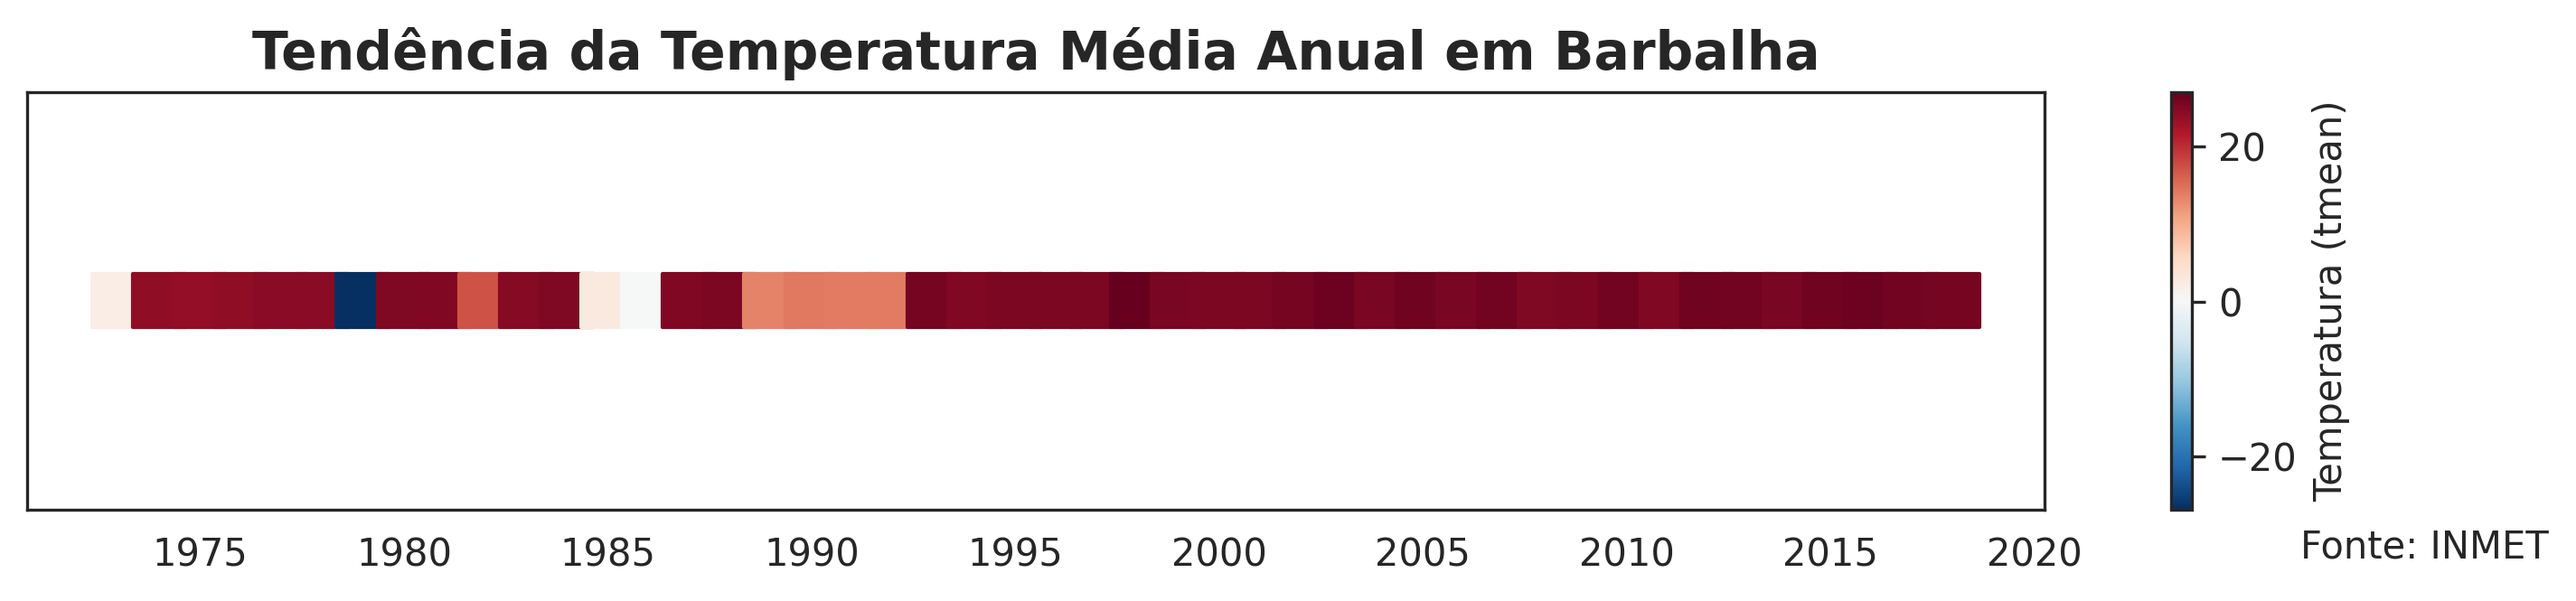
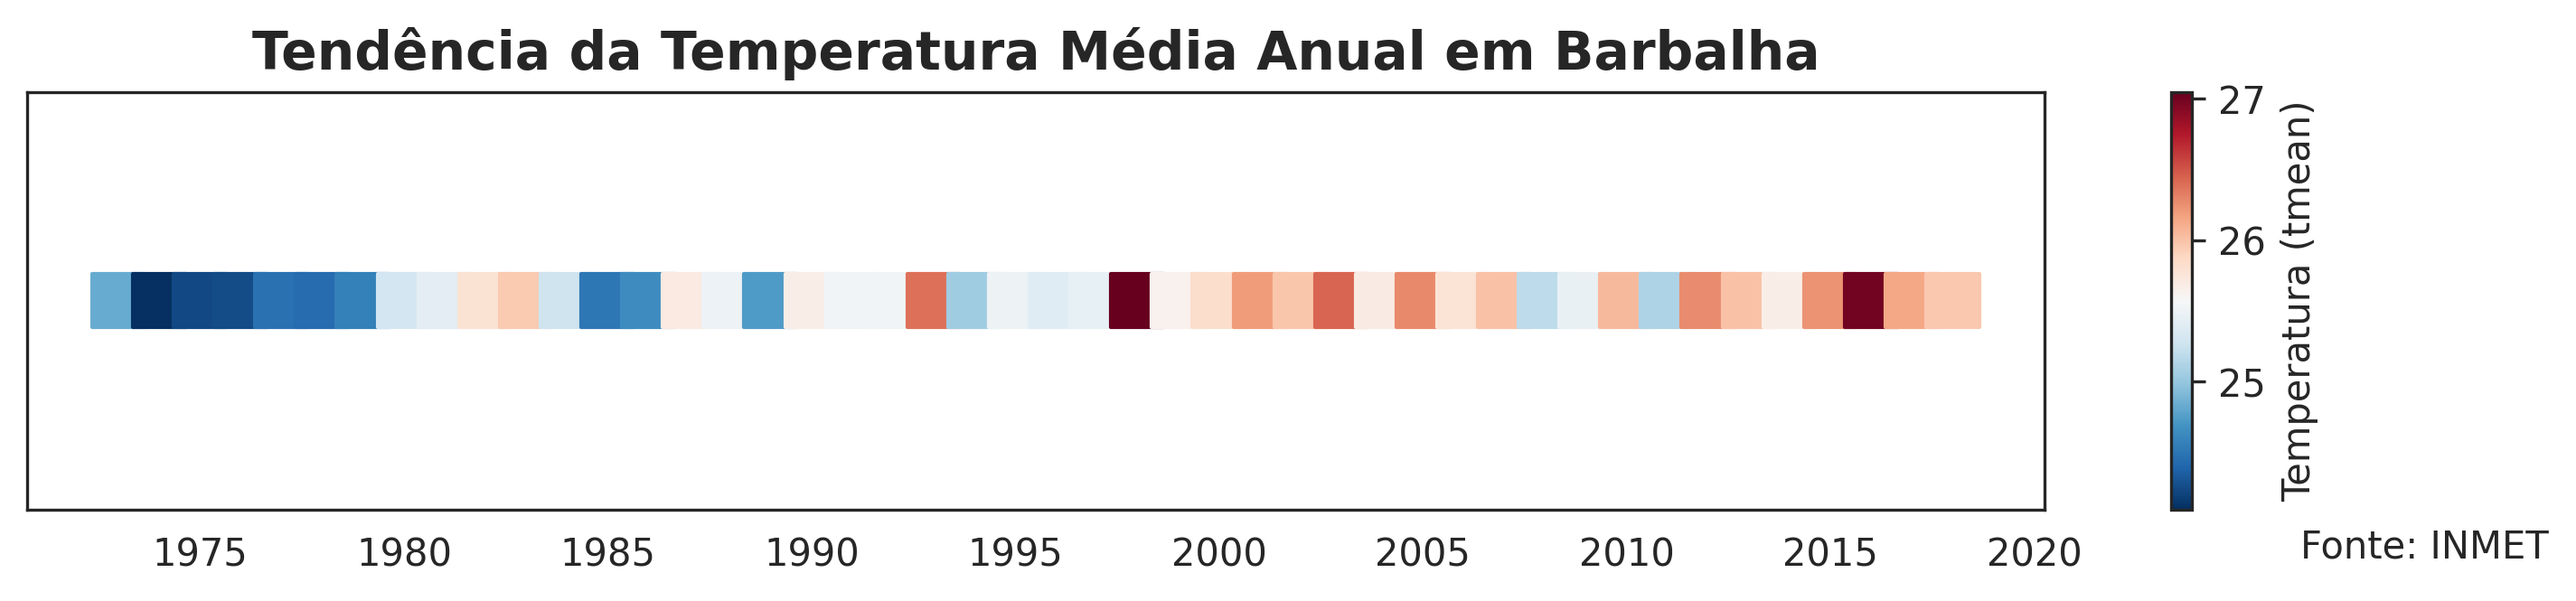
mudanças para plotar gráficos corretamente

Changed region(s): [[0.0312, 0.4511, 0.7807, 0.5714], [0.8432, 0.1504, 0.9056, 0.8421]]

diff --git a/src/csmanip/trends/identify_trends.py b/src/csmanip/trends/identify_trends.py
@@ -1,6 +1,6 @@
 import pandas as pd
 import numpy as np
-import statsmodels.api as sm
+from scipy import stats # <--- IMPORTAÇÃO ADICIONADA
 
 def mann_kendall_test(data):
     n = len(data)
@@ -9,36 +9,40 @@ def mann_kendall_test(data):
         for j in range(i + 1, n):
             s += np.sign(data[j] - data[i])
 
-    unique_values = np.unique(data)
-    if len(unique_values) == 1:
-        return {"trend": "no trend", "p-value": 1.0, "Tau": 0}
+    unique, counts = np.unique(data, return_counts=True)
+    
+    if len(unique) == n:
+        tie_correction = 0
+    else:
+        tie_correction = np.sum(counts[counts > 1] * (counts[counts > 1] - 1) * (2 * counts[counts > 1] + 5))
 
-    variance = (n * (n - 1) * (2 * n + 5)) / 18
-    z = s / np.sqrt(variance) if variance > 0 else 0
+    variance = (n * (n - 1) * (2 * n + 5) - tie_correction) / 18
+    
+    if variance > 0:
+        z = s / np.sqrt(variance)
+    else:
+        return {"trend": "no trend", "p-value": 1.0, "Tau": 0, "Z-score": 0}
 
-    # Determinar tendência com base no valor de S
     trend = "increasing" if s > 0 else "decreasing" if s < 0 else "no trend"
 
-    # Usando normalização para aproximar o p-valor
-    p_value = 2 * (1 - sm.stats.norm.cdf(abs(z)))
+    # CORREÇÃO APLICADA AQUI
+    p_value = 2 * (1 - stats.norm.cdf(abs(z)))
 
     tau = s / (n * (n - 1) / 2)
     
-    return {"trend": trend, "p-value": p_value, "Tau": tau}
+    return {"trend": trend, "p-value": p_value, "Tau": tau, "Z-score": z}
 
+# A função analyze_trend permanece a mesma.
 def analyze_trend(csv_file, column_name):
     data_base = pd.read_csv(csv_file)
     
     if column_name not in data_base.columns:
         raise ValueError(f"Coluna '{column_name}' não encontrada no CSV.")
     
-    # Pegar a série temporal
     data_series = data_base[column_name].dropna().to_numpy()
 
-    # Teste de Mann-Kendall
     mk_result = mann_kendall_test(data_series)
 
-    # Inclinação de Sen 
     n = len(data_series)
     slopes = [(data_series[j] - data_series[i]) / (j - i) for i in range(n - 1) for j in range(i + 1, n)]
     sens_slope = np.median(slopes)
@@ -47,8 +51,3 @@ def analyze_trend(csv_file, column_name):
         "mann_kendall": mk_result,
         "sens_slope": sens_slope
     }
-"""
-if __name__ == "__main__":
-    csv_file = "dados/BeloHorizonte_TNN.csv"
-    trends = analyze_trend(csv_file, "V2")
-"""

diff --git a/teste.py b/teste.py
@@ -21,25 +21,12 @@ input_dir = "src/csmanip/data"
 output_dir = "src/csmanip/processed_data"
 
 cidades = ["Barbalha.csv"]
-trends.process_csv(cidades, input_dir, output_dir)
-dados_das_estacoes = trends.read_files_climdex(output_dir, cidades)
 
-df_barbalha = dados_das_estacoes["Barbalha.csv"]
-indices_calculados = trends.calculate_indices(df_barbalha, ("1991-01-01", "2020-12-31"))
-
-output_dir_indices = 'indices_climaticos'
-#trends.write_indices(indices_calculados, "BarbalhaIndex", output_dir)
-
-pdf_output_path = f"{output_dir_indices}/graficos_indices_barbalha.pdf"
-
-trends.plot_and_save_indices(indices_calculados, "Barbalha", output_dir)
-
-
-print(f"Gráficos de extremos salvos em: {pdf_output_path}")
-
-resultado_tendencia = trends.analyze_trend(
-    csv_file='src/csmanip/processed_data/BarbalhadadosAnuais.csv',
-    column_name='Tmean'
+trends.group_data(cidades, output_dir, output_dir)
+trends.plot_annual_data(
+    csv_path='src/csmanip/processed_data/BarbalhadadosAnuais.csv',
+    index='tmean',  # Coluna a ser plotada ('tmax', 'tmin', 'tmean', 'prec')
+    file_name='tendencia_anual_tmedia_barbalha.png',
+    title_img='Tendência da Temperatura Média Anual em Barbalha',
+    caption_img='Fonte: INMET'
 )
-
-print(resultado_tendencia)

diff --git a/src/csmanip/trends/group_data.py b/src/csmanip/trends/group_data.py
@@ -21,7 +21,9 @@ def group_data(city_files: list, input_dir: str, output_dir: str):
         input_path = os.path.join(input_dir, city_filename)
 
         try:
-            cidade = pd.read_csv(input_path).values
+            df = pd.read_csv(input_path, na_values=-99)
+            df.dropna(inplace=True)
+            cidade = df.values
         except FileNotFoundError:
             print(f"Erro: Arquivo de entrada não encontrado em '{input_path}'")
             continue # Pula para a próxima cidade se o arquivo não for encontrado
